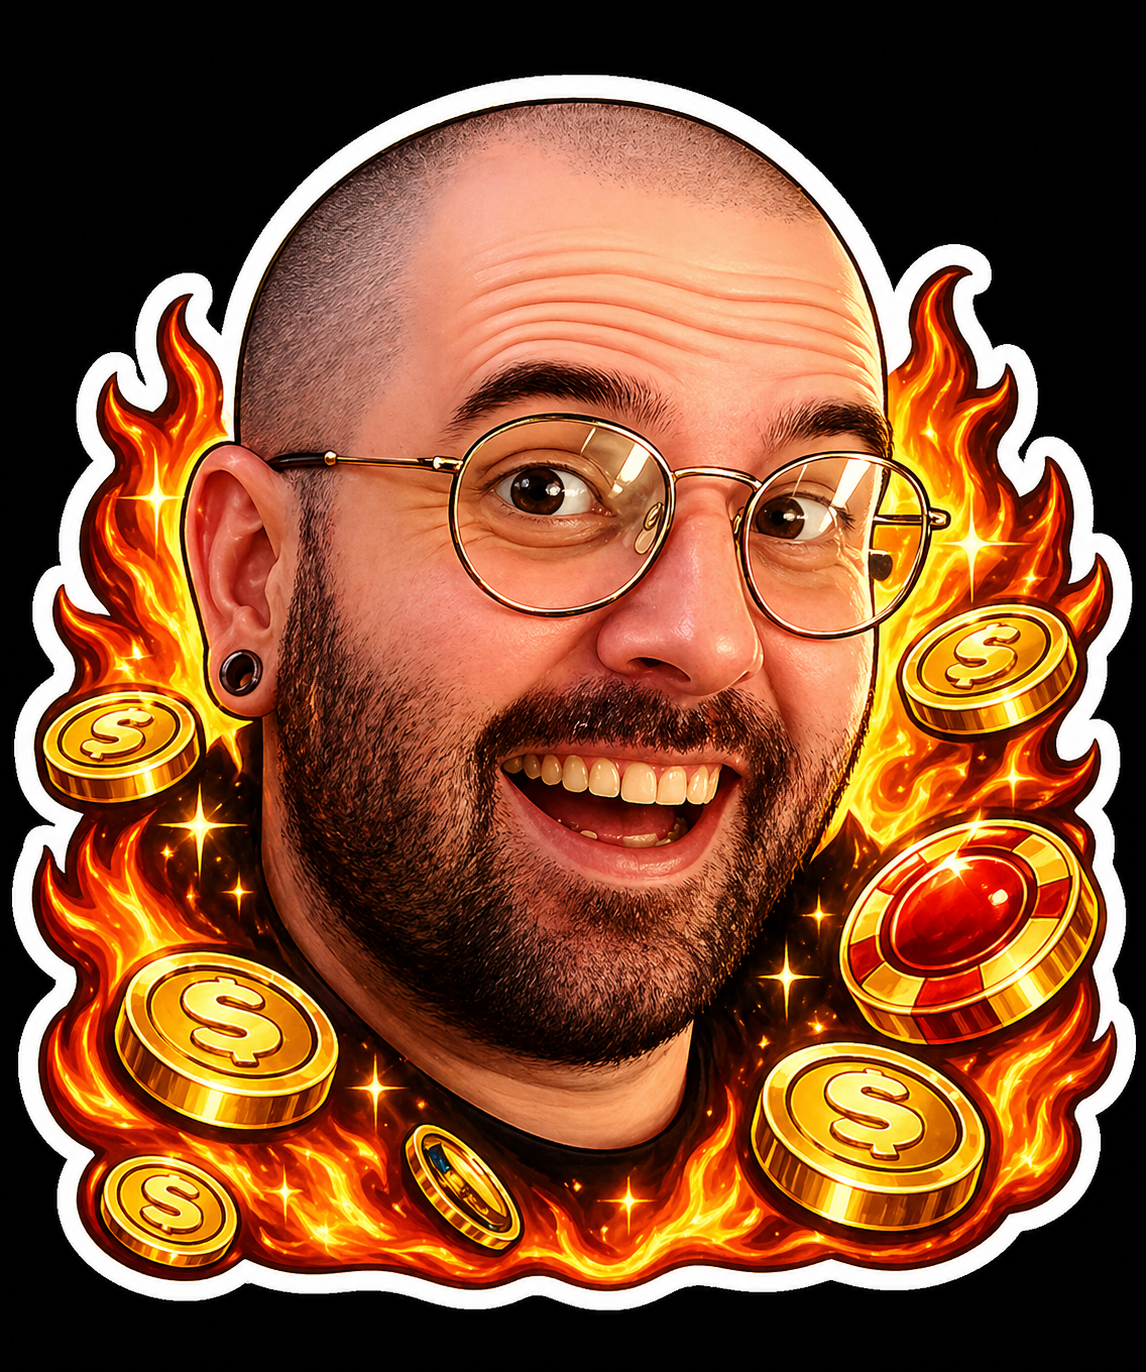
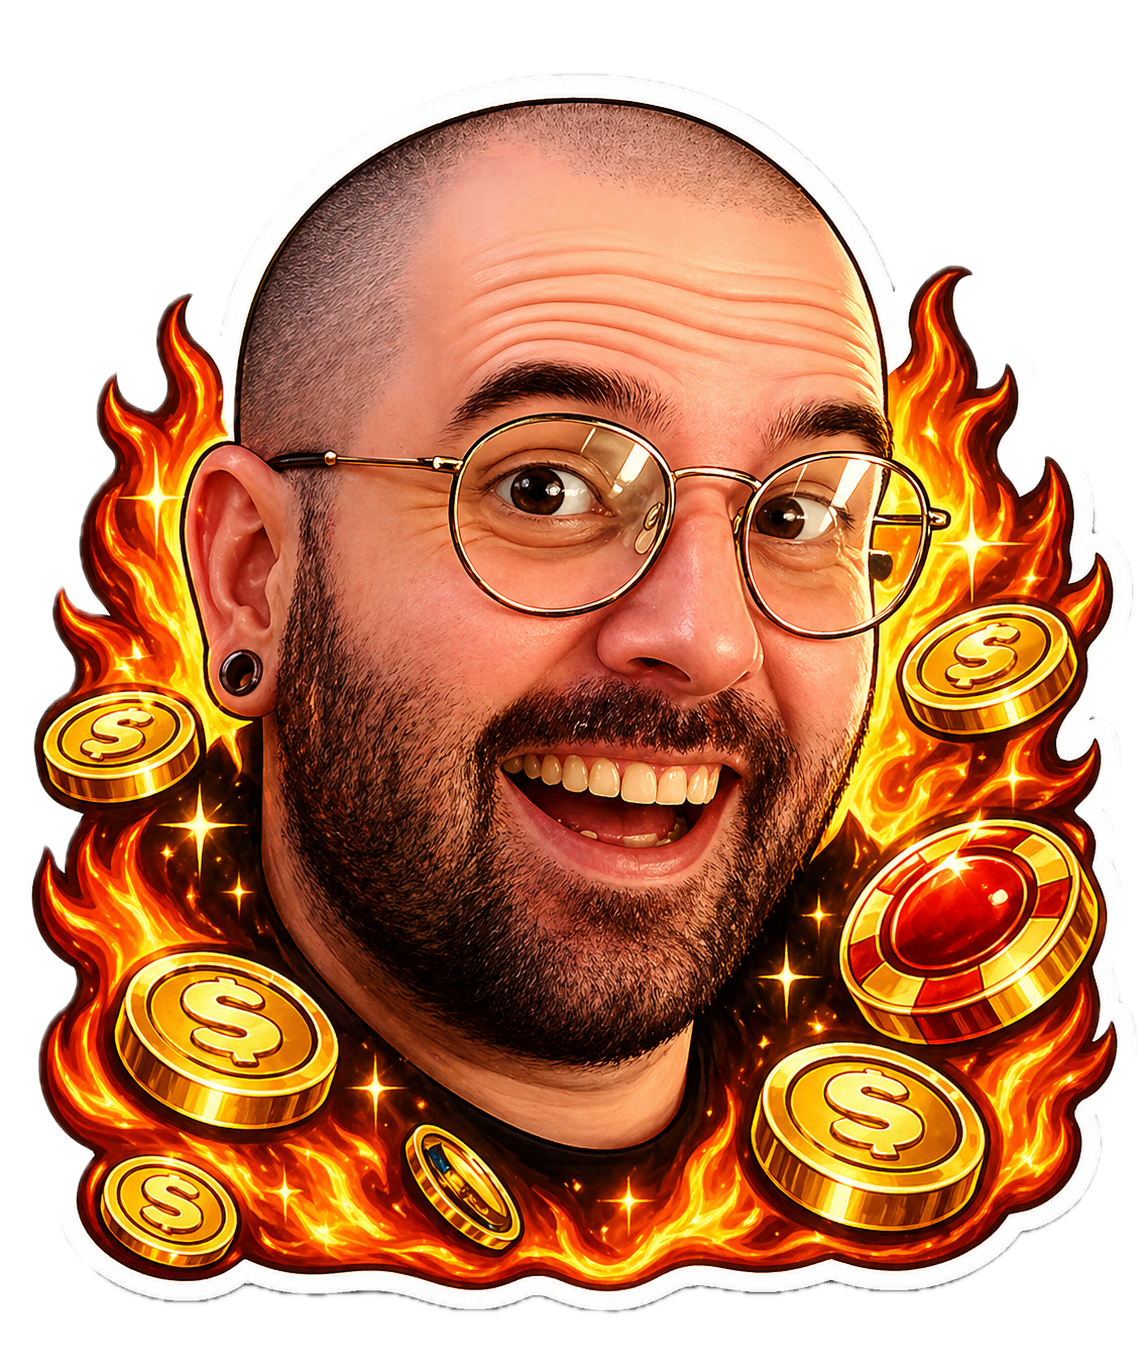
Slots: center ADDICTED popup via flex layout so it stays put on wide viewports

Changed region(s): [[0.0, 0.0, 1.0, 1.0]]

diff --git a/src/components/SlotsMachine.tsx b/src/components/SlotsMachine.tsx
@@ -1212,16 +1212,22 @@ function AddictedOverlay() {
       aria-labelledby="addicted-title"
       style={{
         position: "fixed",
-        top: "50%",
-        left: "50%",
+        inset: 0,
         pointerEvents: "none",
         zIndex: 9999,
-        whiteSpace: "nowrap",
-        animation:
-          "slots-addicted-pop 1100ms cubic-bezier(0.34, 1.56, 0.64, 1) both",
+        display: "flex",
+        justifyContent: "center",
+        alignItems: "center",
       }}
     >
-      <div className="flex flex-col items-center gap-6">
+      <div
+        style={{
+          position: "relative",
+          whiteSpace: "nowrap",
+          animation:
+            "slots-addicted-pop 1100ms cubic-bezier(0.34, 1.56, 0.64, 1) both",
+        }}
+      >
         <div
           id="addicted-title"
           className="font-black uppercase"
@@ -1236,22 +1242,31 @@ function AddictedOverlay() {
         >
           ADDICTED
         </div>
-        <button
-          type="button"
-          onClick={() => setDismissed(true)}
-          className="px-6 py-3 rounded-md font-bold uppercase tracking-wide text-sm transition-transform hover:scale-105 active:scale-95"
+        <div
           style={{
-            background: "linear-gradient(to bottom, #7C3AED, #5B21B6)",
-            color: "#fff",
-            border: "2px solid #A855F7",
-            boxShadow:
-              "0 0 18px rgba(168, 85, 247, 0.7), inset 0 1px 0 rgba(255, 255, 255, 0.2)",
-            pointerEvents: "auto",
-            cursor: "pointer",
+            position: "absolute",
+            top: "calc(100% + 20px)",
+            left: "50%",
+            transform: "translateX(-50%)",
           }}
         >
-          Ok, fuck you
-        </button>
+          <button
+            type="button"
+            onClick={() => setDismissed(true)}
+            className="px-6 py-3 rounded-md font-bold uppercase tracking-wide text-sm transition-transform hover:scale-105 active:scale-95"
+            style={{
+              background: "linear-gradient(to bottom, #7C3AED, #5B21B6)",
+              color: "#fff",
+              border: "2px solid #A855F7",
+              boxShadow:
+                "0 0 18px rgba(168, 85, 247, 0.7), inset 0 1px 0 rgba(255, 255, 255, 0.2)",
+              pointerEvents: "auto",
+              cursor: "pointer",
+            }}
+          >
+            Ok, fuck you
+          </button>
+        </div>
       </div>
     </div>
   );

diff --git a/src/app/globals.css b/src/app/globals.css
@@ -139,23 +139,23 @@ body {
 
 @keyframes slots-addicted-pop {
   0% {
-    transform: translate(-50%, -50%) scale(0.2) rotate(-12deg);
+    transform: scale(0.2) rotate(-12deg);
     opacity: 0;
     filter: blur(16px);
   }
   35% {
-    transform: translate(-50%, -50%) scale(1.35) rotate(4deg);
+    transform: scale(1.35) rotate(4deg);
     opacity: 1;
     filter: blur(0);
   }
   60% {
-    transform: translate(-50%, -50%) scale(0.92) rotate(-3deg);
+    transform: scale(0.92) rotate(-3deg);
   }
   80% {
-    transform: translate(-50%, -50%) scale(1.08) rotate(2deg);
+    transform: scale(1.08) rotate(2deg);
   }
   100% {
-    transform: translate(-50%, -50%) scale(1) rotate(0deg);
+    transform: scale(1) rotate(0deg);
     opacity: 1;
   }
 }
